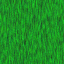
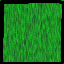
Made the bird move better.

Changed region(s): [[0.0, 0.0, 1.0, 1.0]]

diff --git a/src/entities/bird.js b/src/entities/bird.js
@@ -1,7 +1,7 @@
 Bird = BaseEntity.extend({
 	defaults: {
-		'speed' : 2,
-		'acc' : 1,
+		'speed' : 4,
+		'acc' : 0.2,
 		'frame' : 0,
 		'width': 0,   // width
 		'height': 0,  // height
@@ -47,25 +47,25 @@ Bird = BaseEntity.extend({
 				var wy = model.get('entity').y;
 				var angle = Math.atan2(model.get('targety')-wy,model.get('targetx')-wx);
 
-				if(angle >= -3.14/4 && angle < 3.14/4) {
+				if(angle >= -Math.PI/4 && angle < Math.PI/4) {
 					entity.__coord[0] = 0;
 					entity.__coord[1] = 64;
 				}
-				if(angle >= 3.14/4 && angle < 3.14*(3/4)) {
+				if(angle >= Math.PI/4 && angle < Math.PI*(3/4)) {
 					entity.__coord[0] = 0;
 					entity.__coord[1] = 128;
 				}
 
-				if(angle >= 3.14*(3/4) && angle < 3.14) {
+				if(angle >= Math.PI*(3/4) && angle < Math.PI+0.001) {
 					entity.__coord[0] = 0;
 					entity.__coord[1] = 0;
 				}
-				if(angle >= -3.14 && angle < -3.14*(3/4)) {
+				if(angle >= -Math.PI && angle < -Math.PI*(3/4)) {
 					entity.__coord[0] = 0;
 					entity.__coord[1] = 0;
 				}
 
-				if(angle >= -3.14*(3/4) && angle < -3.14/4) {
+				if(angle >= -Math.PI*(3/4) && angle < -Math.PI/4) {
 					entity.__coord[0] = 0;
 					entity.__coord[1] = 192;
 				}
@@ -94,20 +94,24 @@ Bird = BaseEntity.extend({
 
 			if(model.get('followpath')) {
 
-				var ovec = model.get('origvec2');
+				var ovec = model.get('origvec2').clone();
 				// Acceleration phase
 				if(model.get('origpathdist') - model.get('pathdist') < model.get('accdist')) {
-
+					console.log("Acc:"+model.get('vec2'));
 					model.set('vec2',model.get('vec2').add(ovec.scale(model.get('acc'))));
 					// Normal phase
 				} else if(model.get('origpathdist') - model.get('pathdist') >= model.get('accdist') && model.get('pathdist') > model.get('accdist')) {
-
+					console.log("Norm "+model.get('pathdist')+":"+model.get('vec2'));
 					// Deceleration phase
 				} else if (model.get('pathdist') < model.get('accdist') && model.get('pathdist') >= 0){
-
-					model.set('vec2',model.get('vec2').add(ovec.scale(model.get('acc')).negate()));
+					console.log("Dec:"+model.get('vec2'));
+					model.set('vec2',model.get('vec2').subtract(ovec.scale(model.get('acc'))));
 				} else {
+					console.log("Ab");
 					model.set('vec2', new Crafty.math.Vector2D(0,0));
+					model.set('followpath',false);
+					model.get('entity').x = model.get('targetx');
+					model.get('entity').y = model.get('targety');
 					// stub
 				}
 				var vec = model.get('vec2');
@@ -117,14 +121,14 @@ Bird = BaseEntity.extend({
 				
 				Crafty.viewport.scroll('_x', -model.get('entity').x+Crafty.viewport.width/2);
 				Crafty.viewport.scroll('_y', -model.get('entity').y+Crafty.viewport.height/2);
-/*				if(model.get('pathdist') <= 1) {
-					model.set('followpath',false);
-				}
-*/
-				//Crafty.viewport.centerOn(this, 10);
+
+				model.get('scroll')[0] = -model.get('entity').x+Crafty.viewport.width/2;
+				model.get('scroll')[1] = -model.get('entity').y+Crafty.viewport.height/2;
 				
-				if(Math.abs(model.get('targetx')-model.get('entity').x) <= 1 && Math.abs(model.get('targety')-model.get('entity').y) <= 1 ) {
+				if(model.get('vec2').magnitude() < 0.001 ||(Math.abs(model.get('targetx')-model.get('entity').x) <= 2 && Math.abs(model.get('targety')-model.get('entity').y) <= 2) ) {
 					model.set('followpath',false);
+					model.get('entity').x = model.get('targetx');
+					model.get('entity').y = model.get('targety');
 				}
 
 			}
@@ -164,8 +168,8 @@ Bird = BaseEntity.extend({
 			var tiley = Math.floor(y/64)*64;
 			
 			console.log(tilex+" x "+tiley);
-			model.set({'targetx' : tilex+32});
-			model.set({'targety' : tiley+32});
+			model.set({'targetx' : tilex});
+			model.set({'targety' : tiley});
 			model.set({'newpath' : true});
 		}});
 		model.set({'mouseHandler' : function (e) {

diff --git a/src/scenes/main.js b/src/scenes/main.js
@@ -31,7 +31,7 @@ Crafty.scene("main", function() {
 				//console.log(gameContainer.conf.get('renderType'));
 				//Crafty.e("2D, Canvas, grass_01")
 				//.attr({ x: i * 63, y: j * 63, z: 1 });
-				sc['tile'+ i +'x'+ j] = new Tile('grass1', i*64, j*64);
+				sc['tile'+ i +'x'+ j] = new Tile('grass01', i*64, j*64);
 			}
 		}
 		
